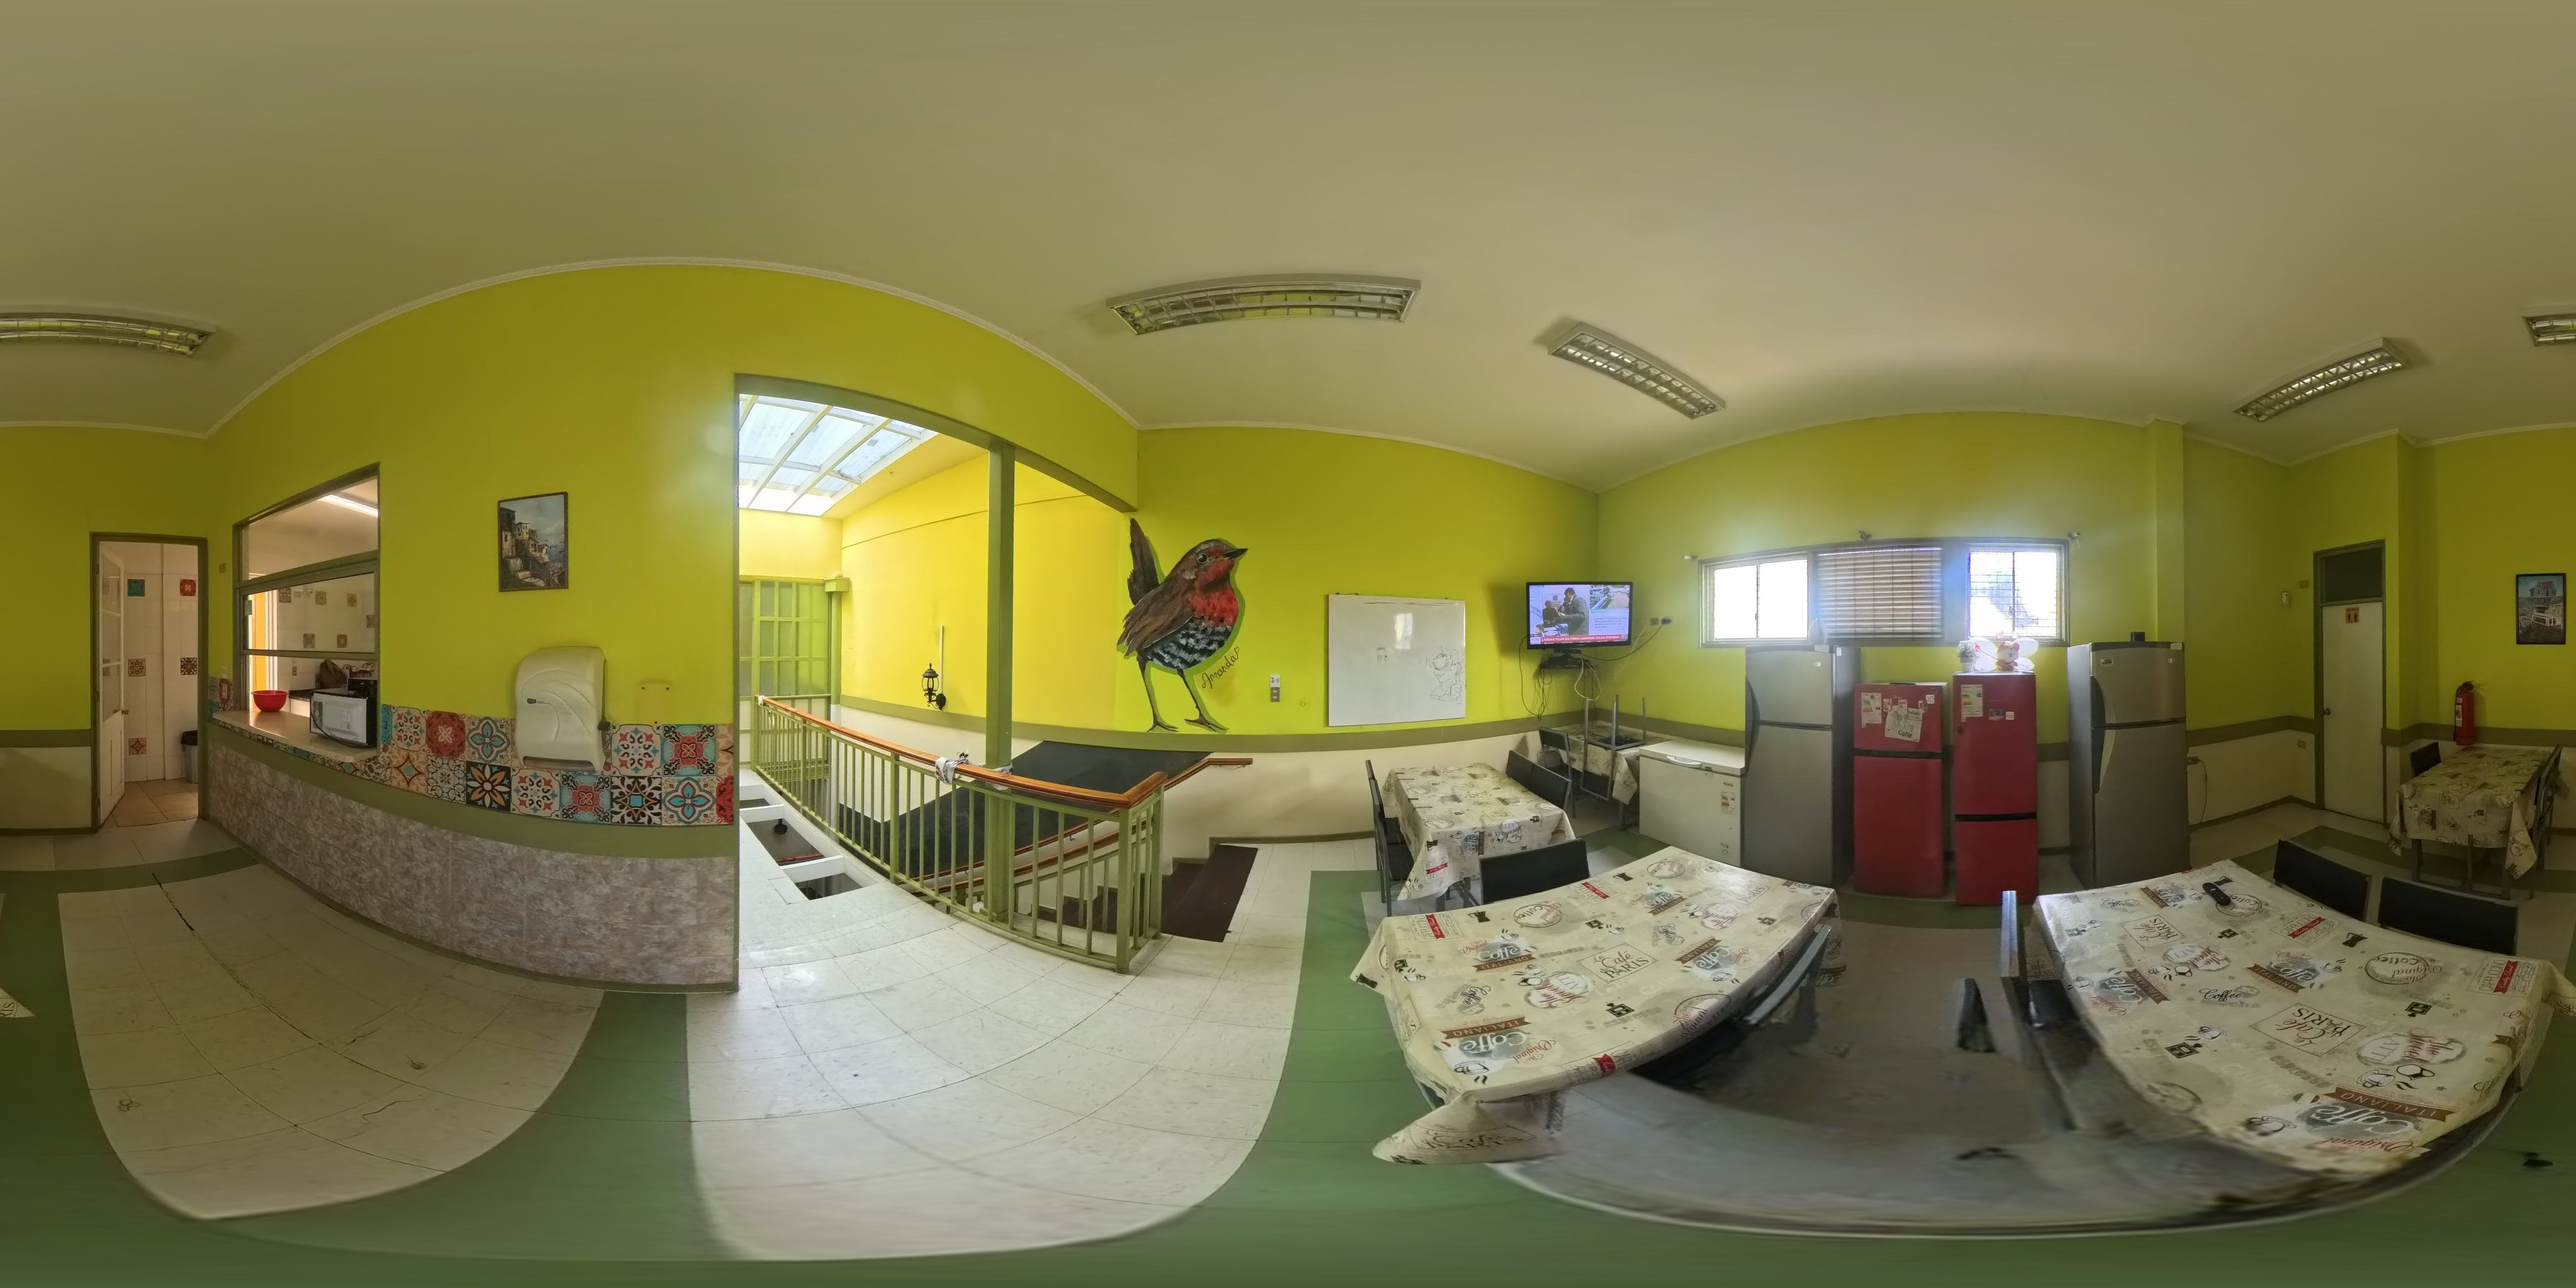
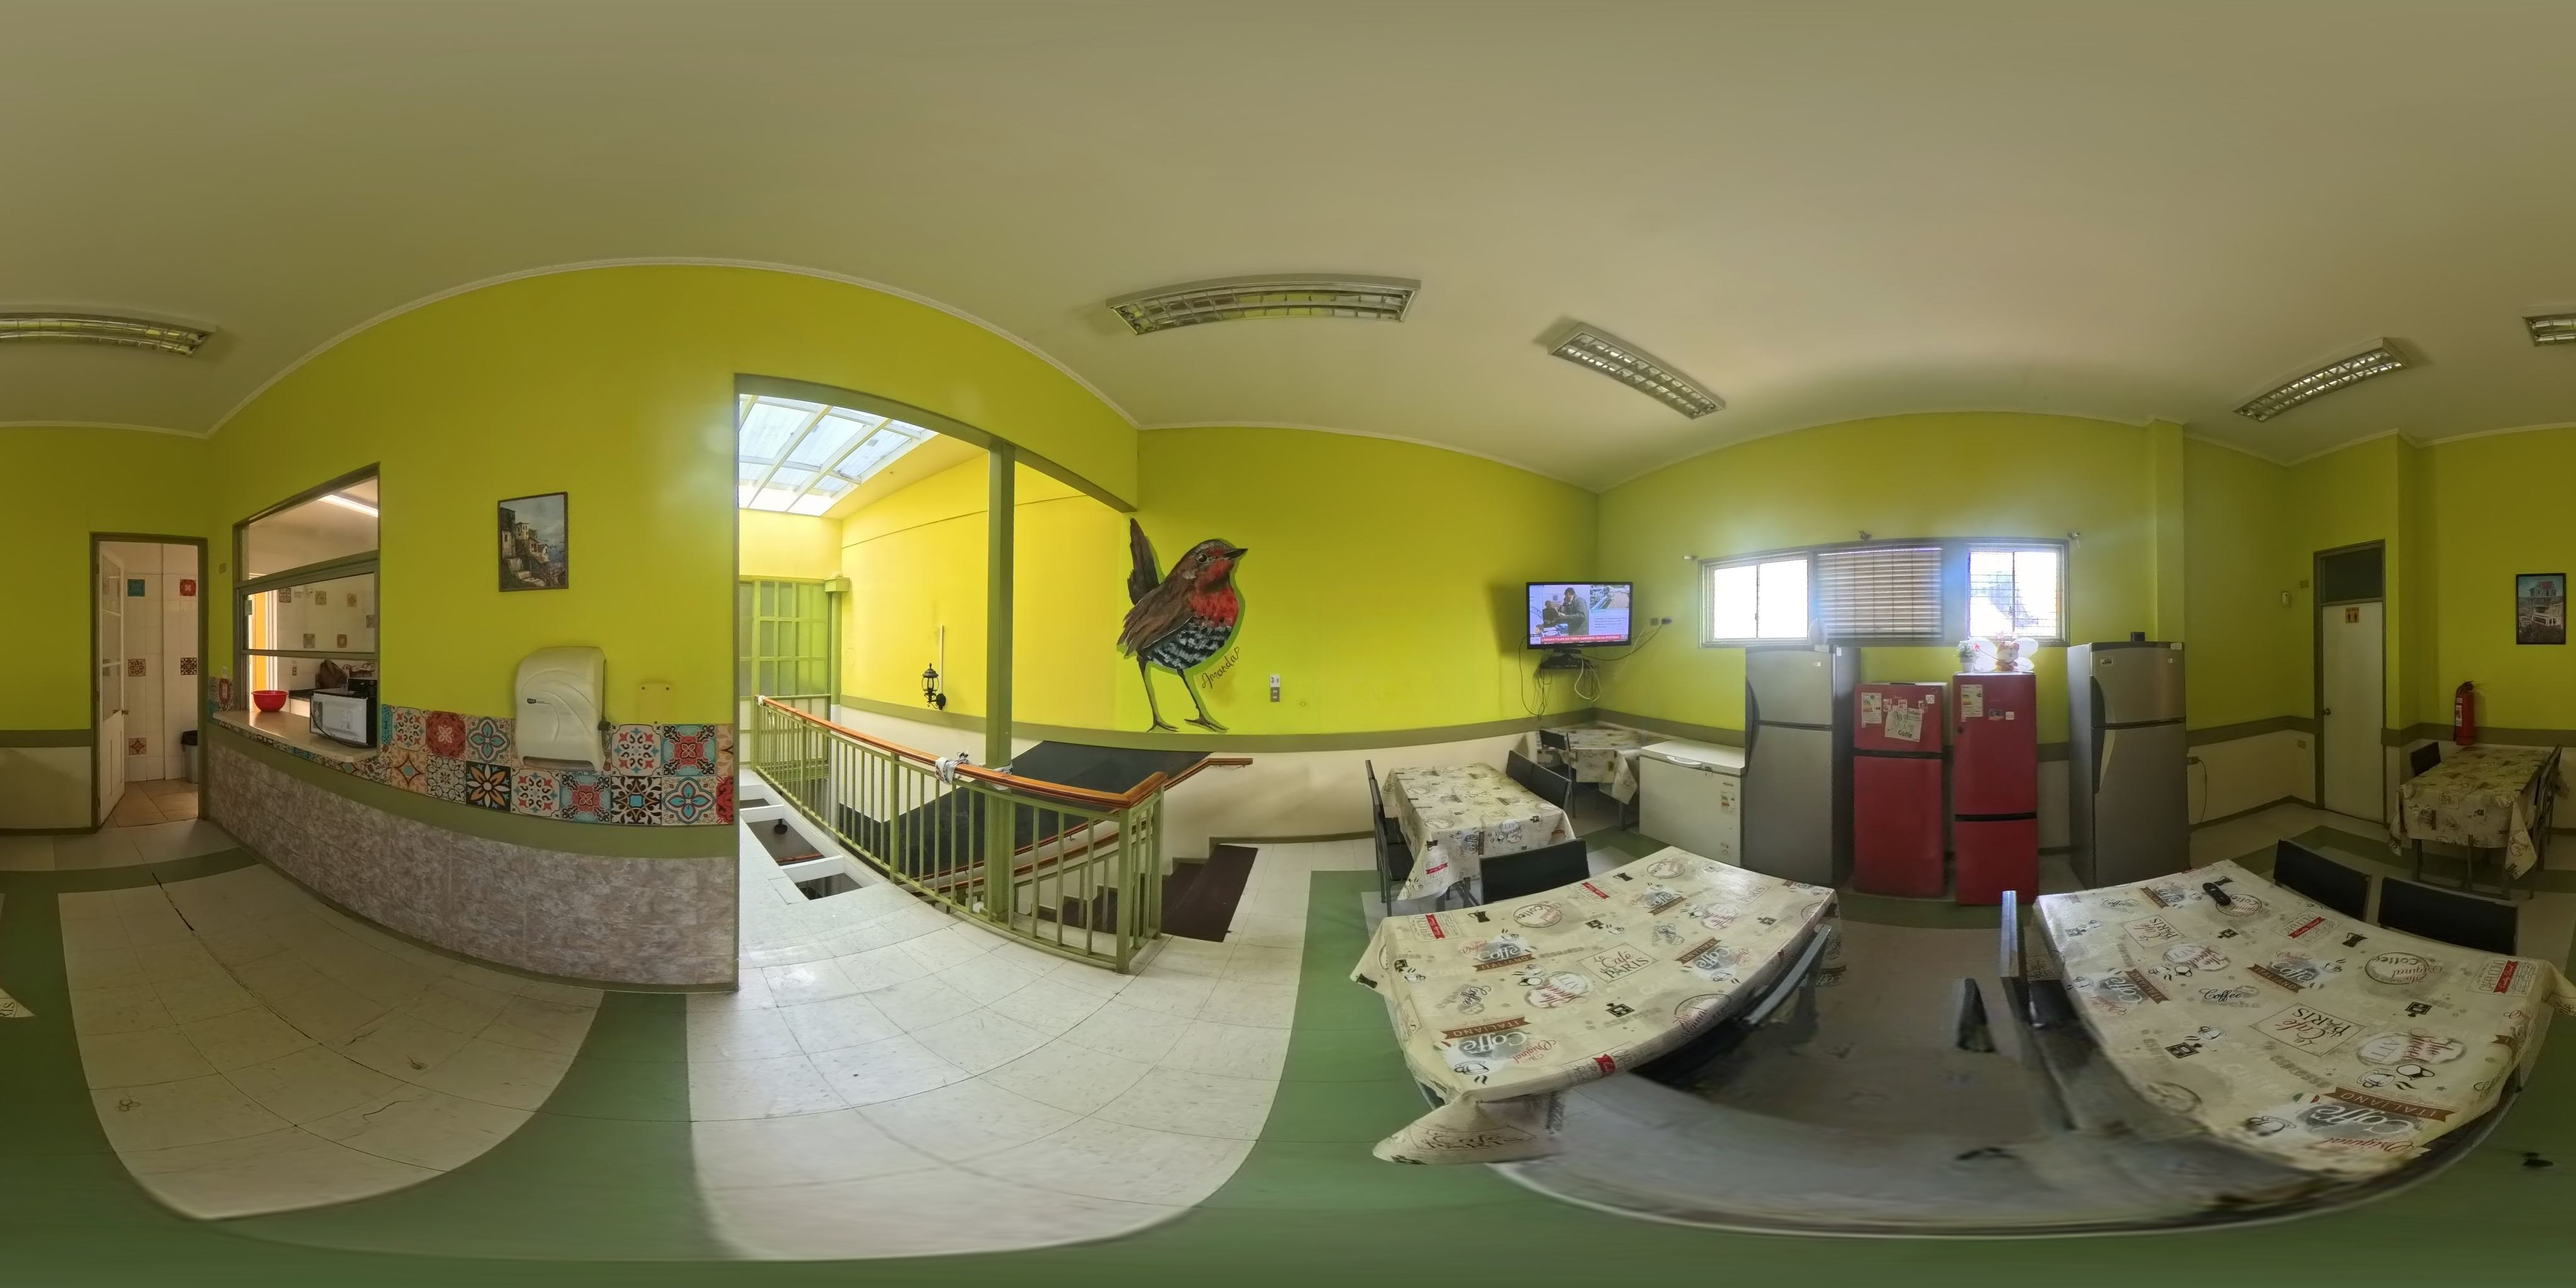
Comedor de Pocuro: sin pizarra ni silla dada vuelta; mesa del fondo con el mismo mantel

Changed region(s): [[0.5, 0.4375, 0.5938, 0.5625], [0.5938, 0.5625, 0.6562, 0.625]]

diff --git a/index.html b/index.html
@@ -4,8 +4,8 @@
 <meta charset="utf-8">
 <meta name="viewport" content="width=device-width, initial-scale=1, viewport-fit=cover">
 <meta name="description" content="Piezas amobladas para estudiantes en Cerro Placeres y Pocuro, Valparaíso. Gastos incluidos. Agenda tu visita por WhatsApp.">
-<meta name="build" content="1795032584">
-<script>window.BUILD="1795032584";</script>
+<meta name="build" content="1795034487">
+<script>window.BUILD="1795034487";</script>
 <script>
 /* Si el navegador abrió una copia vieja de la página, se recarga sola con la versión publicada más nueva. */
 (function () {
